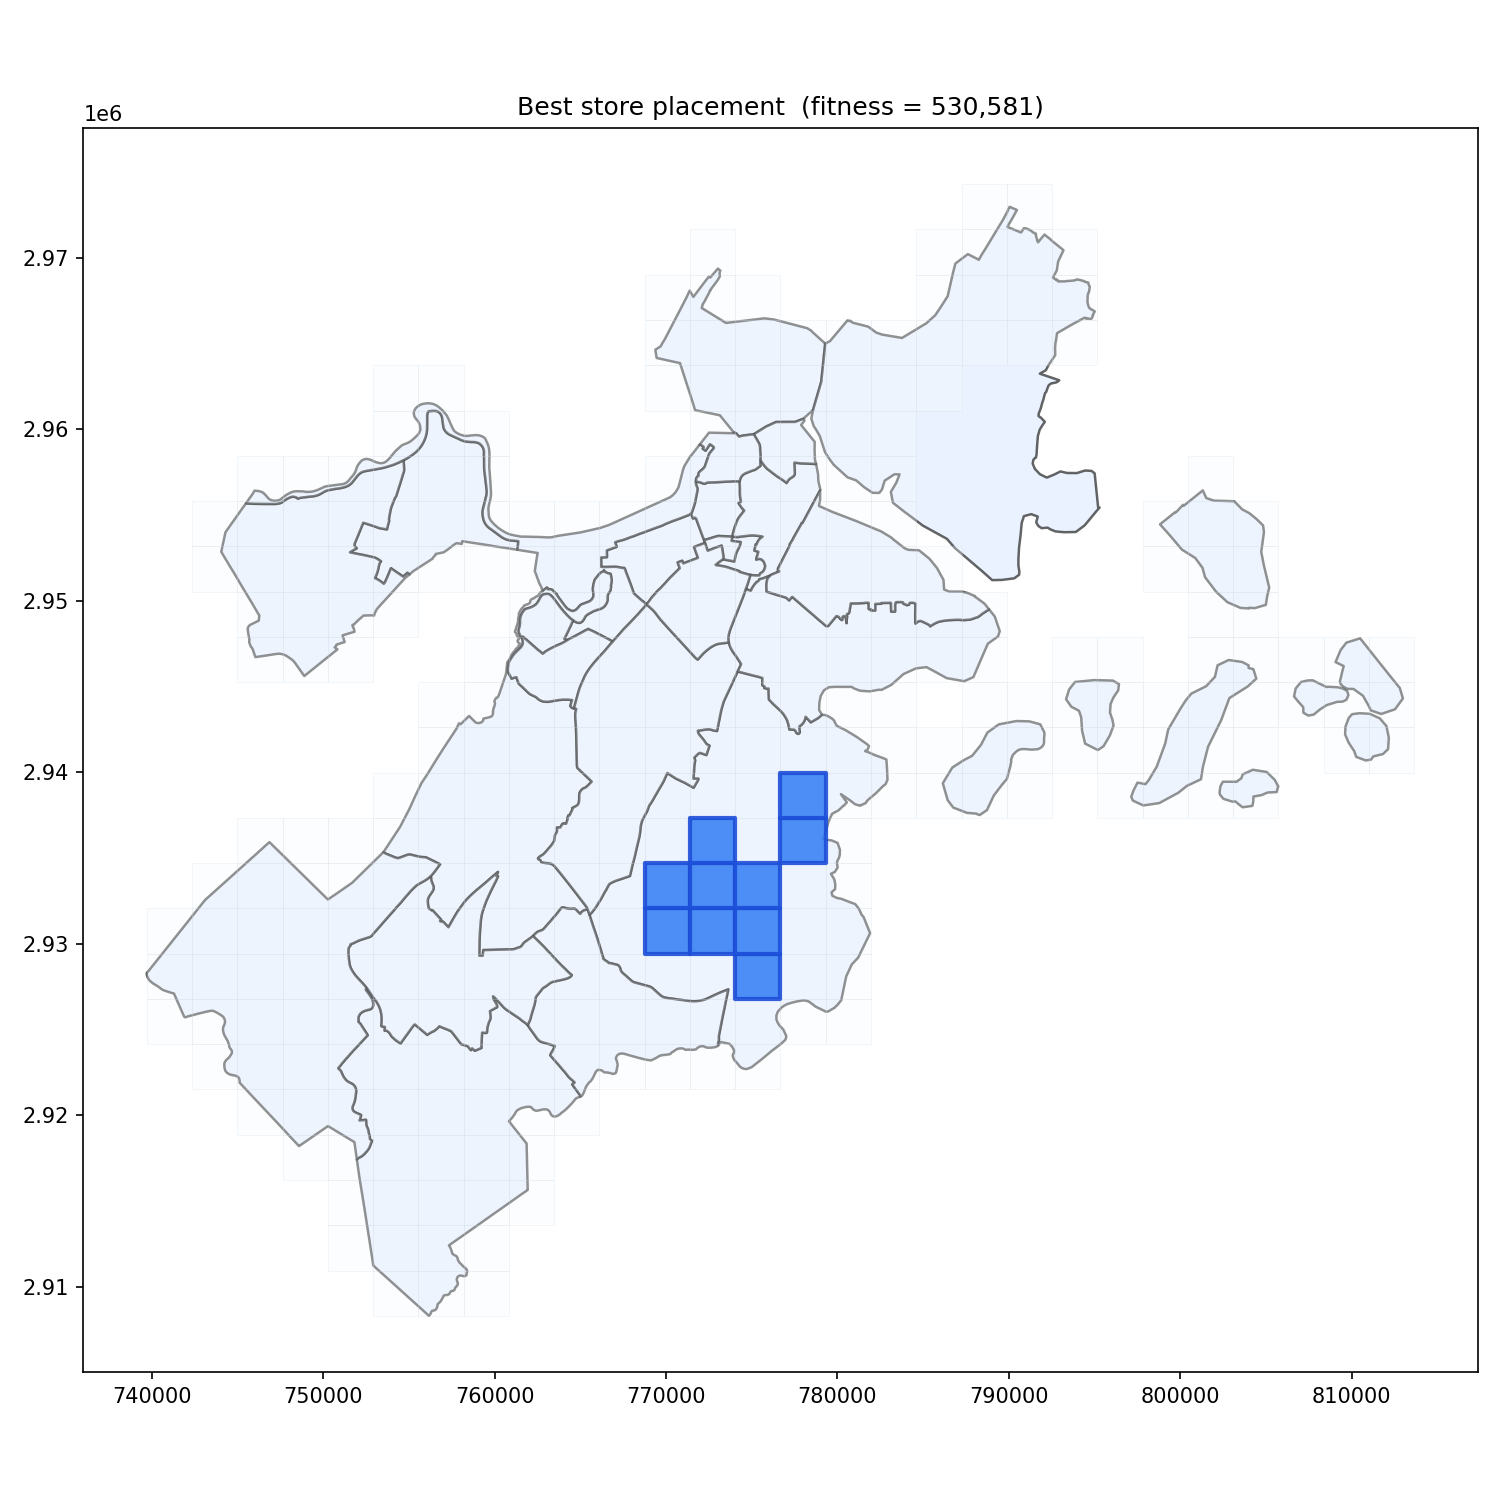
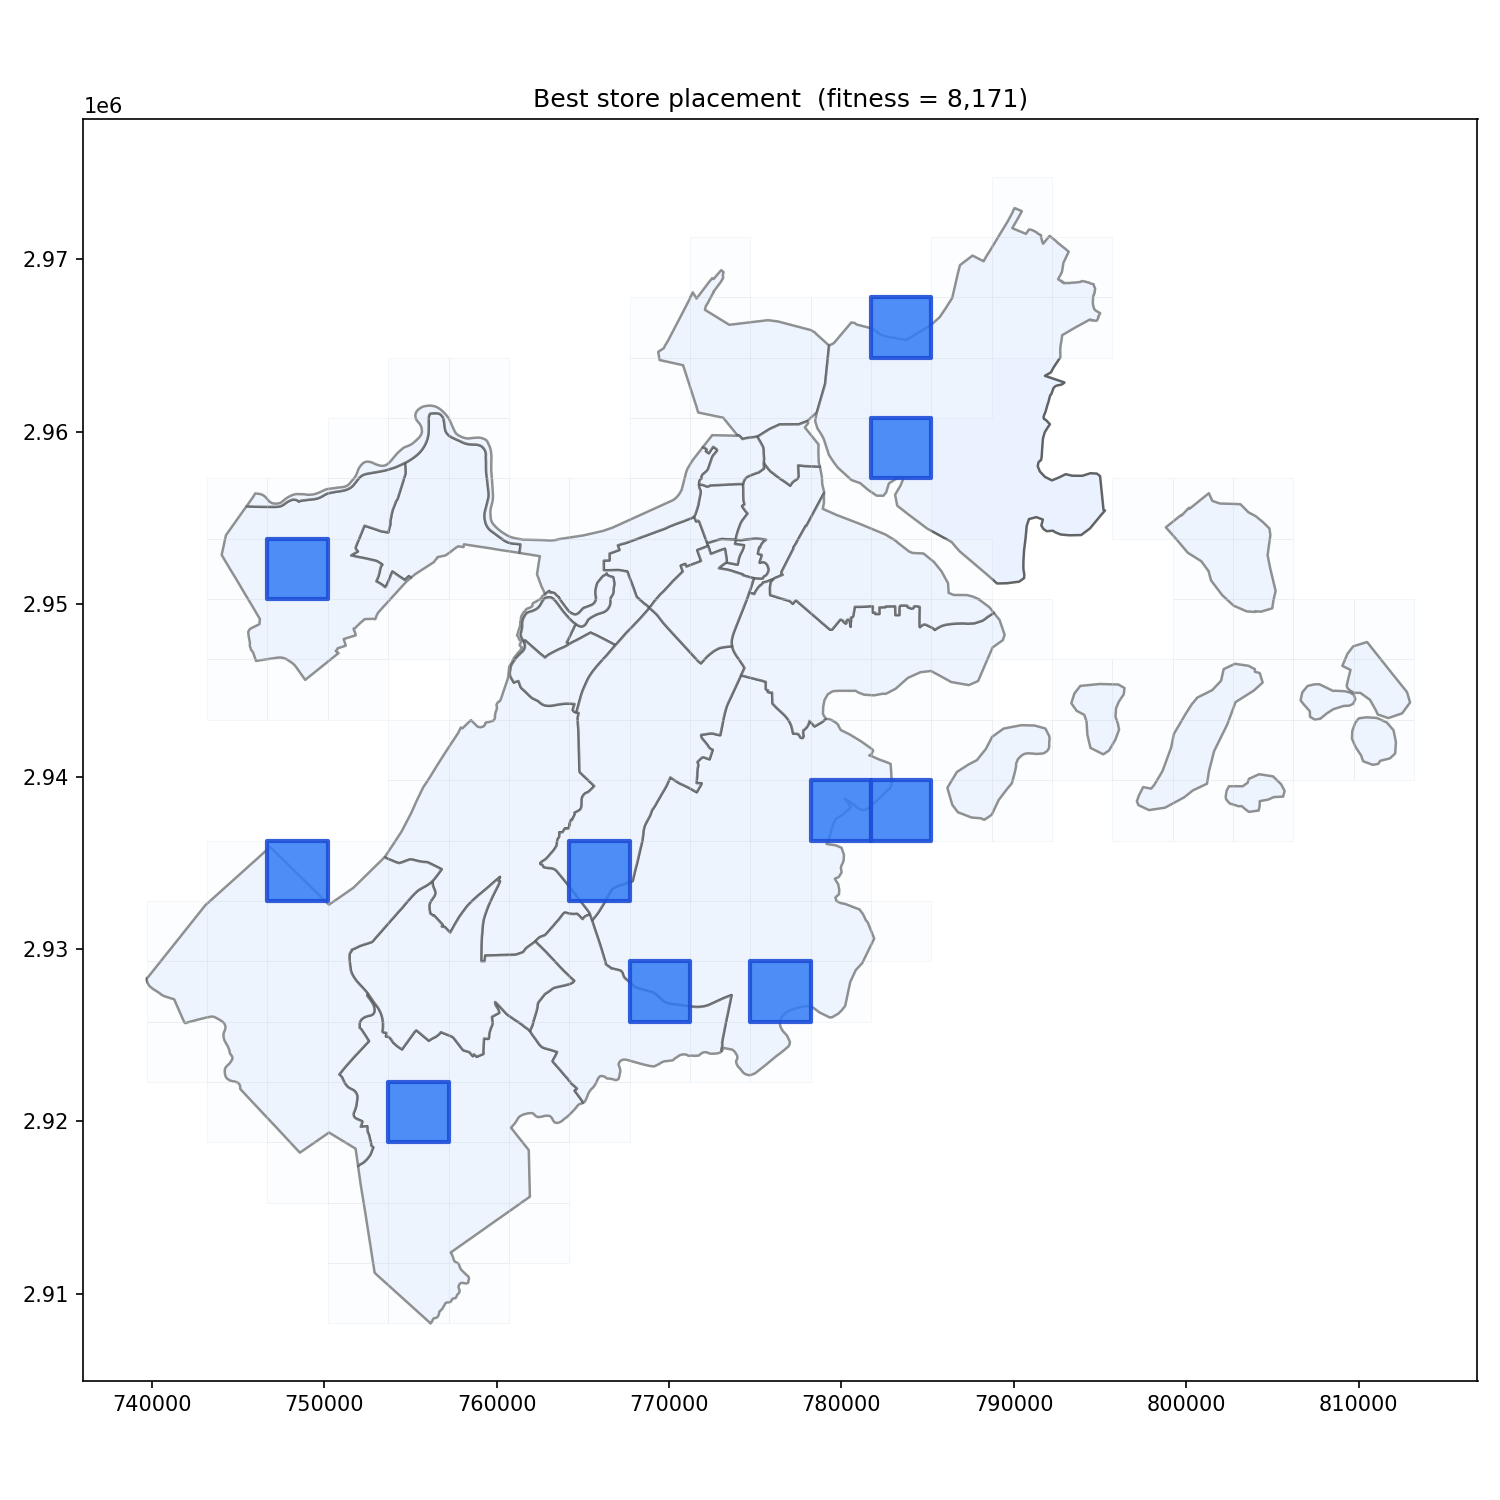
Updated fitness weights with airport exclusion

diff --git a/state_space_representation.py b/state_space_representation.py
@@ -9,8 +9,8 @@ import warnings
 import warnings
 warnings.filterwarnings("ignore", category=RuntimeWarning)
 
-N_STORES = 10
-CELLSIZE = 2640
+N_STORES       = 10
+CELLSIZE = 3500
 MUTATION_RATE  = 0.7
 MULTISWAP_PROB = 0.15
 
@@ -200,7 +200,18 @@ def income_fitness_func(candidate):
     #print(income_coeff)
     return income_coeff
 
+def penalize_new_store_clustering(candidate, candidate_cells):
+    penalty = 0
+    for _, other in candidate_cells.iterrows():
+        if candidate["cell_idx"] == other["cell_idx"]:
+            continue
+        dist = candidate.geometry.centroid.distance(other.geometry.centroid)
+        if dist < CELLSIZE:
+            penalty += 1
+    return penalty
+
 def fitness_func(chromosome):
+
     candidate_cells = candidates[chromosome == 1].copy()
     total_score = 0
     for _, candidate in candidate_cells.iterrows():
@@ -227,15 +238,25 @@ def fitness_func(chromosome):
         # for example if the candidate cell has 10,000 people in it and the nearby stores 
         # are already serving 7,000 of those people, then the coverage ratio would be 0.7.
         coverage_ratio = min(already_served / population if population > 0 else 1, 1)
+        exisitng_store_penality = np.exp(-5 * coverage_ratio)  
 
         health = (overlap["Estimate"] * overlap["weight"]).sum()
+
+        dists = candidate_cells.geometry.centroid.distance(candidate.geometry.centroid)
+        cluster_penalty = np.sum(np.exp(-dists / CELLSIZE)) - 1
+        cluster_factor = np.exp(-cluster_penalty)
+        population_term = np.sqrt(population)
+
 
         #print("Weights:", overlap["weight"].values) 
         #print("Sum of weights:", overlap["weight"].sum())
 
         # so this would be (0.5 * 10000)(1 - 0.7) = 1,500
         #  So placing a store here only gives you 30% of the reward you'd get in a completely uncovered area.
-        score = ((0.5 * population)*(1 - coverage_ratio) + (0.3 * health) + income_fitness_func(candidate) * population)
+        #score = ((0.5 * population) + exisitng_store_penality + income_fitness_func(candidate) * population) * (1 + health/100)  # add 1 to make sure we don't lose points for negative health scores
+        score = (population_term * (income_fitness_func(candidate) * population)) \
+        * exisitng_store_penality  * cluster_factor \
+        * (1 + health/100)
         #print(f"Candidate cell {candidate['cell_idx']}")
         #print(f"Population {population:.2f})")
         #print(f"Health {health:.2f}")
@@ -349,5 +370,3 @@ ax.legend()
 ax.set_title("Existing Grocery Stores in Boston")
 plt.tight_layout()
 plt.show()
-
-
